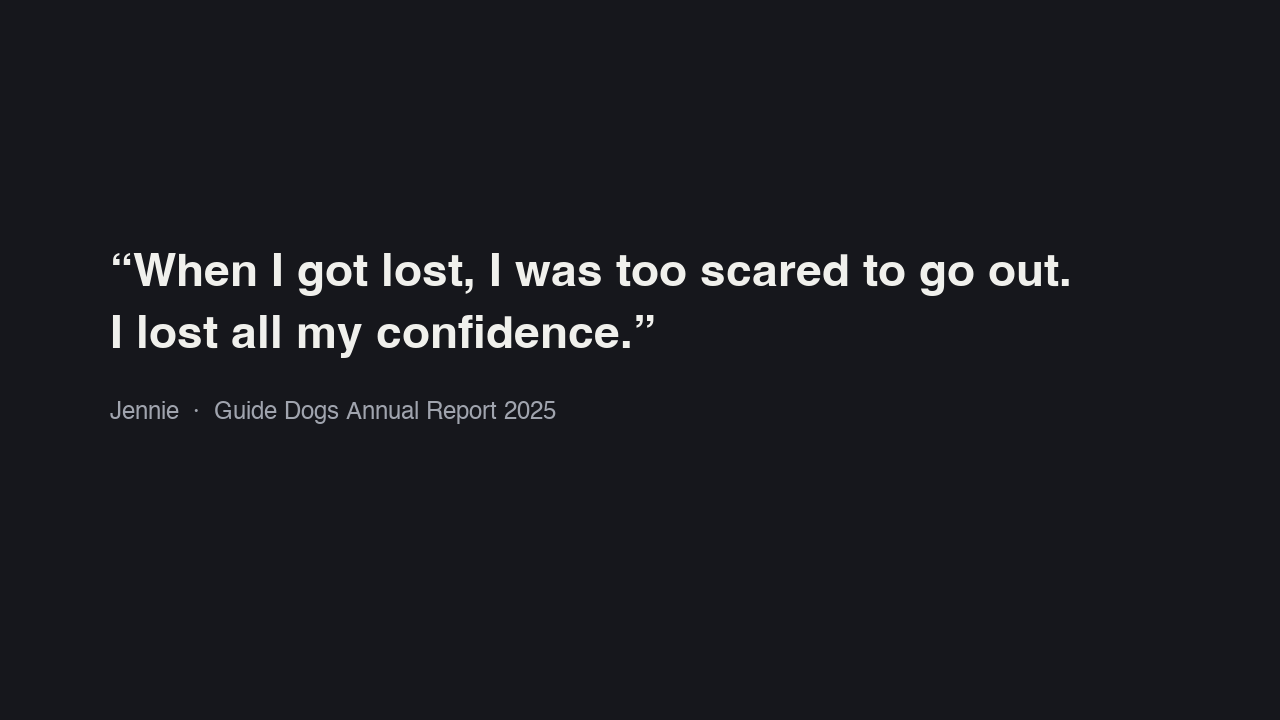
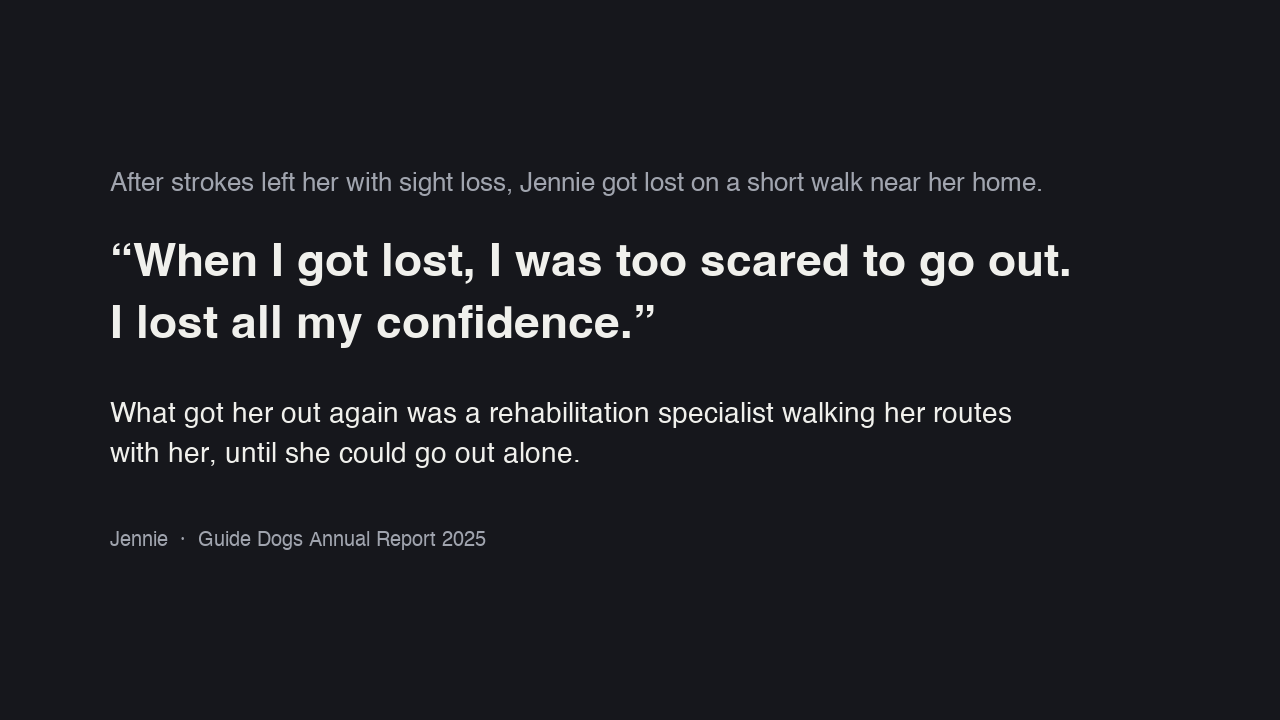
Opening card: Jennie's story in context

diff --git a/make_cards.py b/make_cards.py
@@ -15,9 +15,12 @@ def card(path, lines):
 
 
 card("brand/card_quote.png", [
-    ((110, 250), "\u201cWhen I got lost, I was too scared to go out.", f(46, True), FG),
-    ((110, 312), "I lost all my confidence.\u201d", f(46, True), FG),
-    ((110, 400), "Jennie  \u00b7  Guide Dogs Annual Report 2025", f(24), GREY),
+    ((110, 170), "After strokes left her with sight loss, Jennie got lost on a short walk near her home.", f(26), GREY),
+    ((110, 240), "\u201cWhen I got lost, I was too scared to go out.", f(46, True), FG),
+    ((110, 302), "I lost all my confidence.\u201d", f(46, True), FG),
+    ((110, 400), "What got her out again was a rehabilitation specialist walking her routes", f(28), FG),
+    ((110, 440), "with her, until she could go out alone.", f(28), FG),
+    ((110, 530), "Jennie  \u00b7  Guide Dogs Annual Report 2025", f(20), GREY),
 ])
 card("brand/card_intro.png", [
     ((90, 130), "Over 2 million people in the UK live with sight loss.", f(40, True), FG),
